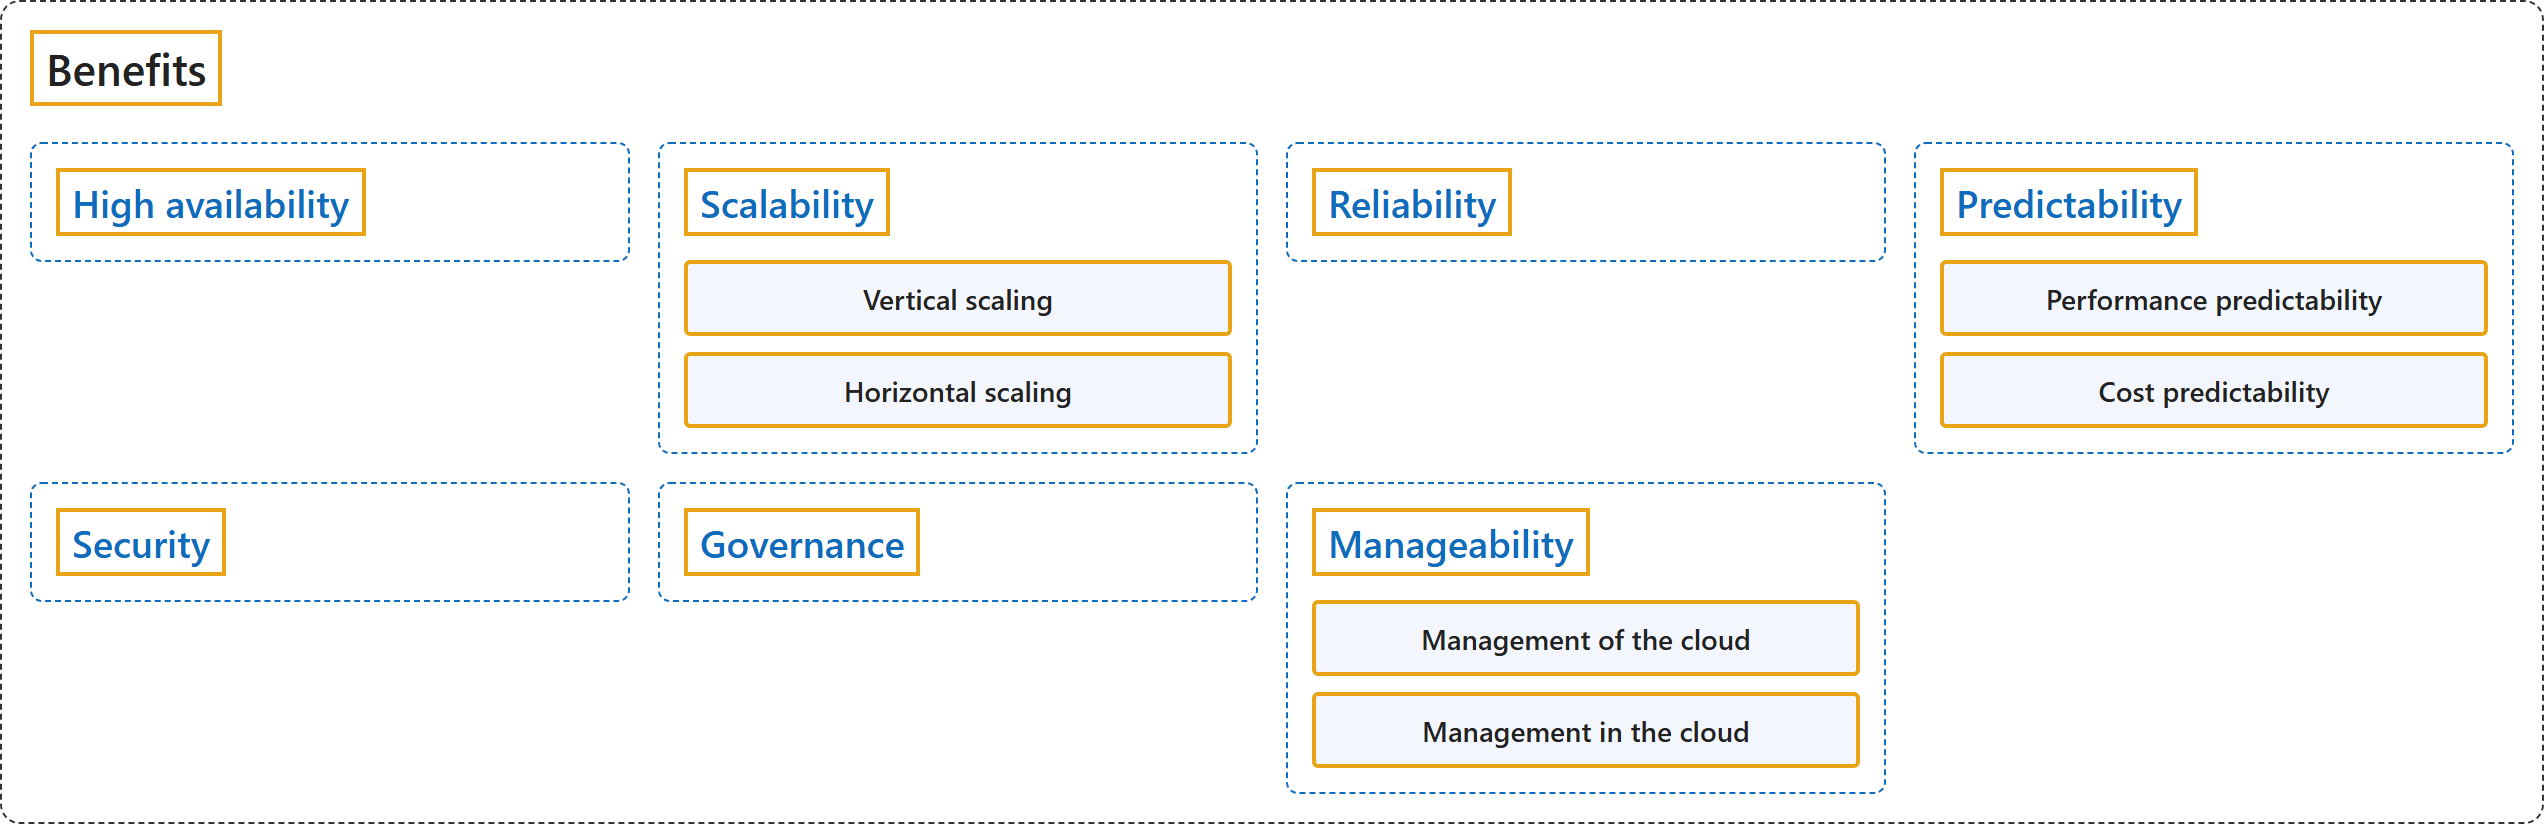
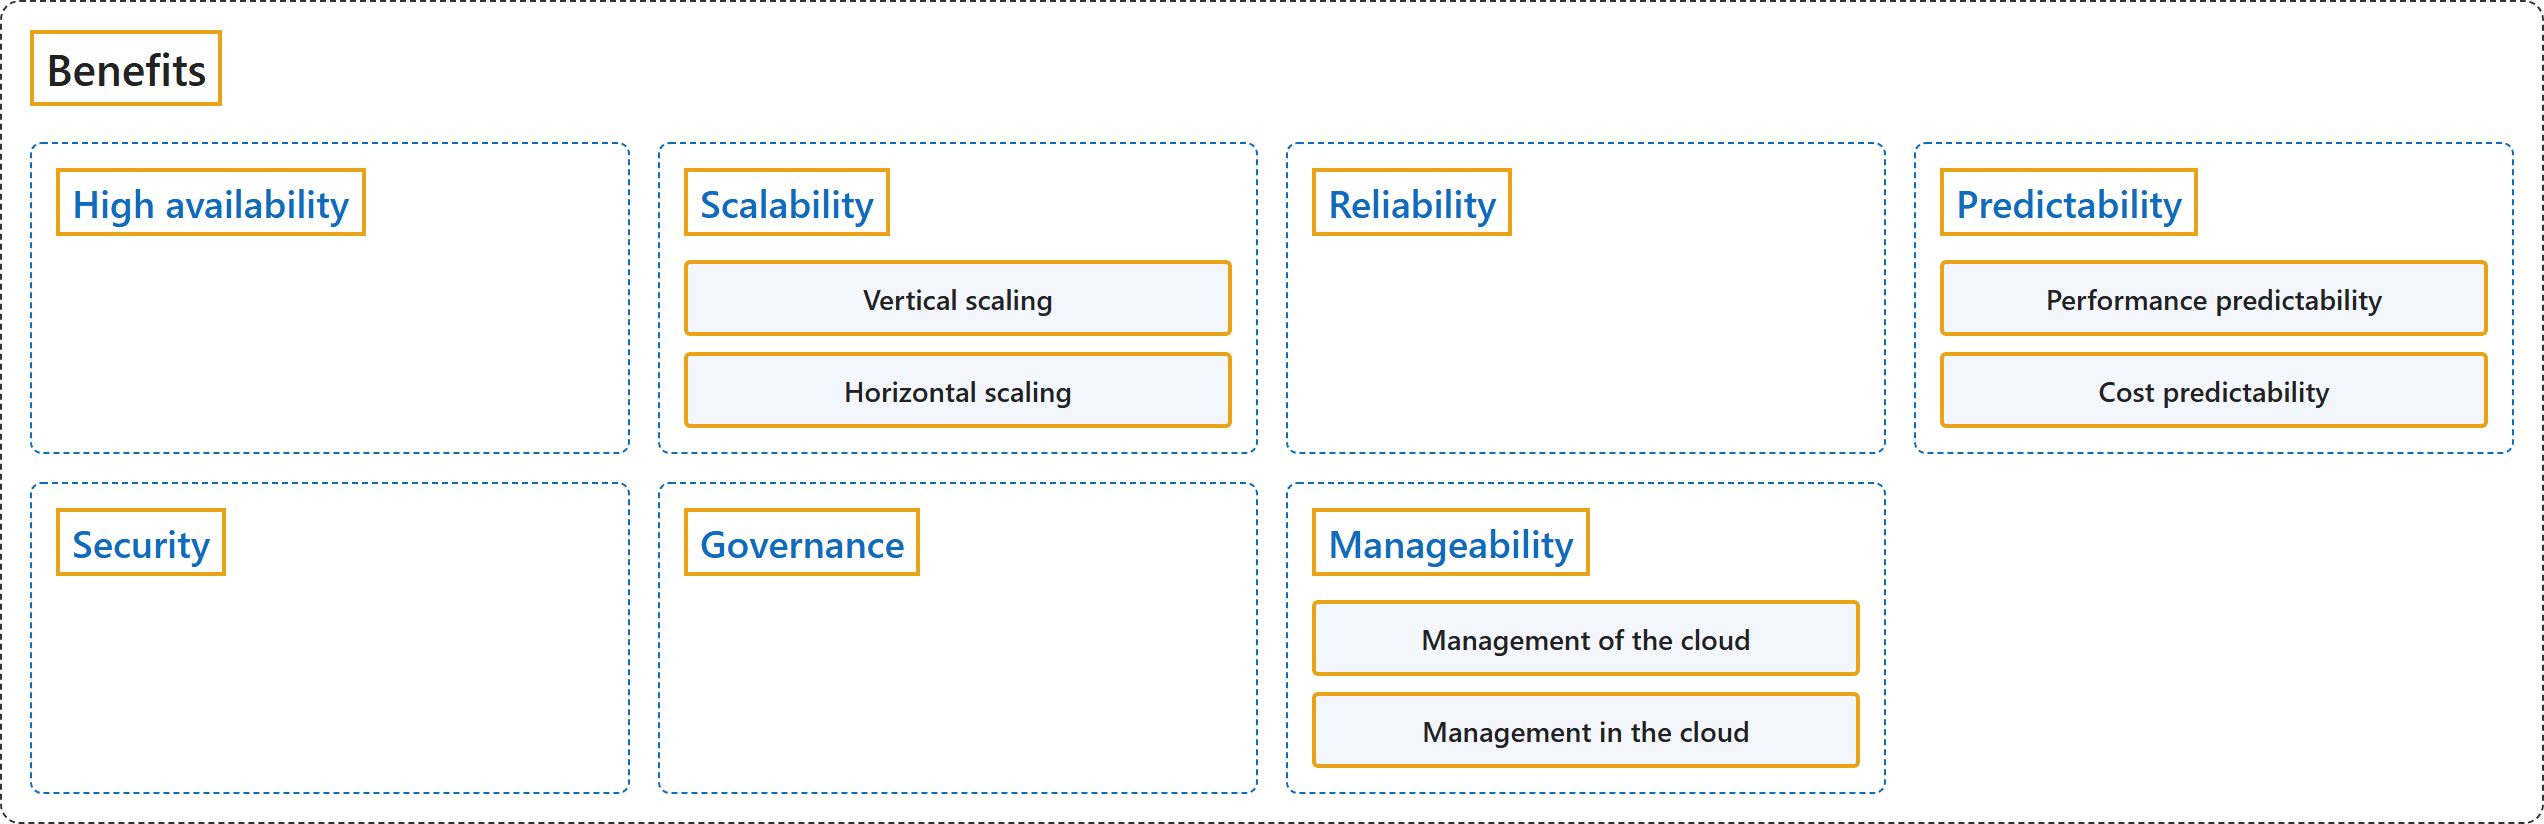
feat(azure): 2.2 Management infrastructure written; groups in a row equally tall
2.2 gets its figure and Glossary from the two AZ-900 units it lists: five groups in source order, Resources and Resource groups name-only (no kinds in the source), Subscriptions with its two boundary types (billing, access control), Management groups with the Tenant Root Group, Azure account with the Azure free account and Azure free student account. Chinese names from the zh-cn units.

Groups in one row are now equally tall (2.2 and the 1.5 Benefits figure re-rendered); README section 5 says so.

diff --git a/figures/cloud/azure/core-architectural-components/management-infrastructure.html b/figures/cloud/azure/core-architectural-components/management-infrastructure.html
@@ -1,0 +1,41 @@
+<!doctype html>
+<html><head><meta charset="utf-8">
+<style>
+  body { margin: 0; background: #fff; font-family: "Segoe UI", sans-serif; }
+  .frame { display: inline-block; margin: 2px; padding: 14px 14px 14px; border: 1.5px dashed #333; border-radius: 10px; }
+  .title { display: inline-block; border: 2px solid #e8a317; padding: 2px 6px; font-size: 22px; font-weight: 600; color: #222; margin-bottom: 18px; }
+  .row { display: flex; gap: 14px; align-items: stretch; }
+  .group { width: 300px; border: 1.5px dashed #0f6cbd; border-radius: 6px; padding: 12px; box-sizing: border-box; }
+  .group .title { white-space: nowrap; color: #0f6cbd; font-size: 19px; margin-bottom: 12px; }
+  .group .title:last-child { margin-bottom: 0; }
+  .item { border: 2px solid #e8a317; background: #f3f7fd; border-radius: 3px; height: 34px; margin-bottom: 8px;
+          display: flex; align-items: center; justify-content: center; font-size: 14px; font-weight: 600; text-align: center; padding: 0 6px; color: #222; }
+  .item:last-child { margin-bottom: 0; }
+</style></head>
+<body>
+<div class="frame" id="fig">
+  <div class="title">Management infrastructure</div>
+  <div class="row">
+    <div class="group">
+      <div class="title">Resources</div>
+    </div>
+    <div class="group">
+      <div class="title">Resource groups</div>
+    </div>
+    <div class="group">
+      <div class="title">Subscriptions</div>
+      <div class="item">Billing boundary</div>
+      <div class="item">Access control boundary</div>
+    </div>
+    <div class="group">
+      <div class="title">Management groups</div>
+      <div class="item">Tenant Root Group</div>
+    </div>
+    <div class="group">
+      <div class="title">Azure account</div>
+      <div class="item">Azure free account</div>
+      <div class="item">Azure free student account</div>
+    </div>
+  </div>
+</div>
+</body></html>

diff --git a/figures/cloud/azure/cloud-computing/benefits.html b/figures/cloud/azure/cloud-computing/benefits.html
@@ -4,7 +4,7 @@
   body { margin: 0; background: #fff; font-family: "Segoe UI", sans-serif; }
   .frame { display: inline-block; margin: 2px; padding: 14px 14px 14px; border: 1.5px dashed #333; border-radius: 10px; }
   .title { display: inline-block; border: 2px solid #e8a317; padding: 2px 6px; font-size: 22px; font-weight: 600; color: #222; margin-bottom: 18px; }
-  .row { display: flex; gap: 14px; align-items: flex-start; margin-bottom: 14px; }
+  .row { display: flex; gap: 14px; align-items: stretch; margin-bottom: 14px; }
   .row:last-child { margin-bottom: 0; }
   .group { width: 300px; border: 1.5px dashed #0f6cbd; border-radius: 6px; padding: 12px; box-sizing: border-box; }
   .group .title { white-space: nowrap; color: #0f6cbd; font-size: 19px; margin-bottom: 12px; }

diff --git a/docs/cloud/azure/core-architectural-components/management-infrastructure.md b/docs/cloud/azure/core-architectural-components/management-infrastructure.md
@@ -1,11 +1,34 @@
 ---
 title: "2.2 Management infrastructure"
 description: "Microsoft Azure, 2.2 Management infrastructure: resources, resource groups, subscriptions, management groups, Azure account."
-ms.date: 2026-10-22
+ms.date: 2026-10-26
 ---
 
 # 2.2 Management infrastructure
 
 Sources: [AZ-900 unit: Describe Azure management infrastructure](https://learn.microsoft.com/en-us/training/modules/describe-core-architectural-components-of-azure/6-describe-azure-management-infrastructure); [AZ-900 unit: Get started with Azure accounts](https://learn.microsoft.com/en-us/training/modules/describe-core-architectural-components-of-azure/3-get-started-azure-accounts).
 
-Not written yet.
+## Classification
+
+![Management infrastructure sorted into five groups: resources, resource groups, subscriptions (billing boundary, access control boundary), management groups (Tenant Root Group) and Azure account (Azure free account, Azure free student account).](media/management-infrastructure.png)
+
+## Glossary
+
+| Term | Definition | 中文解释 | Source |
+|---|---|---|---|
+| **Management infrastructure**<br>管理基础结构 | "The **management infrastructure** includes Azure **resources and resource groups**, **subscriptions**, and **accounts**." | **管理基础结构**包括 Azure **资源和资源组**、**订阅**以及**帐户**。 | [Microsoft, n.d.-b, unit introduction, para. 1](https://learn.microsoft.com/en-us/training/modules/describe-core-architectural-components-of-azure/6-describe-azure-management-infrastructure#:~:text=The%20management%20infrastructure%20includes%20Azure%20resources) |
+| **Resources**<br>资源 | "A resource is the **basic building block** of Azure. **Anything you create, provision, or deploy** is a resource." | 资源是 Azure 的**基本构建基块**。**你创建、预配或部署的任何内容**都是资源。 | [Microsoft, n.d.-b, "Azure resources and resource groups" section, para. 1](https://learn.microsoft.com/en-us/training/modules/describe-core-architectural-components-of-azure/6-describe-azure-management-infrastructure#:~:text=A%20resource%20is%20the%20basic%20building%20block%20of%20Azure) |
+| **Resource groups**<br>资源组 | "Resource groups are **groupings of resources**. Every resource must belong to **exactly one resource group**." | 资源组是**资源的分组**。每个资源都必须属于**恰好一个资源组**。 | [Microsoft, n.d.-b, "Azure resources and resource groups" section, para. 2](https://learn.microsoft.com/en-us/training/modules/describe-core-architectural-components-of-azure/6-describe-azure-management-infrastructure#:~:text=Resource%20groups%20are%20groupings%20of%20resources) |
+| **Subscriptions**<br>订阅 | "In Azure, subscriptions are a **unit of management, billing, and scale**." | 在 Azure 中，订阅是**管理、计费和缩放的单位**。 | [Microsoft, n.d.-b, "Azure subscriptions" section, para. 1](https://learn.microsoft.com/en-us/training/modules/describe-core-architectural-components-of-azure/6-describe-azure-management-infrastructure#:~:text=In%20Azure%2C%20subscriptions%20are%20a%20unit%20of%20management) |
+| **Billing boundary**<br>计费边界 | "**Billing boundary**: Determines **how an Azure account is billed**." | **计费边界**：决定 **Azure 帐户如何计费**。 | [Microsoft, n.d.-b, "Azure subscriptions" section, list item 1](https://learn.microsoft.com/en-us/training/modules/describe-core-architectural-components-of-azure/6-describe-azure-management-infrastructure#:~:text=Determines%20how%20an%20Azure%20account%20is%20billed) |
+| **Access control boundary**<br>访问控制边界 | "**Access control boundary**: Azure applies **access-management policies** at the **subscription level**." | **访问控制边界**：Azure 在**订阅级别**应用**访问管理策略**。 | [Microsoft, n.d.-b, "Azure subscriptions" section, list item 2](https://learn.microsoft.com/en-us/training/modules/describe-core-architectural-components-of-azure/6-describe-azure-management-infrastructure#:~:text=Azure%20applies%20access%2Dmanagement%20policies%20at%20the%20subscription%20level) |
+| **Management groups**<br>管理组 | "Azure management groups **sit above subscriptions**. You **organize subscriptions into management groups** and **apply governance conditions** — like access policies or compliance rules — to the group." | Azure 管理组**位于订阅之上**。你**把订阅组织到管理组中**，并对该组**应用治理条件**（如访问策略或合规性规则）。 | [Microsoft, n.d.-b, "Azure management groups" section, para. 2](https://learn.microsoft.com/en-us/training/modules/describe-core-architectural-components-of-azure/6-describe-azure-management-infrastructure#:~:text=Azure%20management%20groups%20sit%20above%20subscriptions) |
+| **Tenant Root Group**<br>租户根组 | "Every Microsoft Entra tenant has a **single top-level Tenant Root Group**. **All other management groups and subscriptions fold up** to this root group, which lets you **apply governance policies globally**." | 每个 Microsoft Entra 租户都有**一个顶级租户根组**。**所有其他管理组和订阅都向上归入**这个根组，这样你就可以**在全局应用治理策略**。 | [Microsoft, n.d.-b, "Azure management groups" section, para. 3](https://learn.microsoft.com/en-us/training/modules/describe-core-architectural-components-of-azure/6-describe-azure-management-infrastructure#:~:text=Every%20Microsoft%20Entra%20tenant%20has%20a%20single%20top%2Dlevel%20Tenant%20Root%20Group) |
+| **Azure account**<br>Azure 帐户 | "An Azure subscription links to an Azure account, which is an **identity in Microsoft Entra ID** or in a **directory that Microsoft Entra ID trusts**." | Azure 订阅链接到一个 Azure 帐户，该帐户是 **Microsoft Entra ID 中的标识**，或 **Microsoft Entra ID 信任的目录**中的标识。 | [Microsoft, n.d.-b, "Azure subscriptions" section, para. 2](https://learn.microsoft.com/en-us/training/modules/describe-core-architectural-components-of-azure/6-describe-azure-management-infrastructure#:~:text=An%20Azure%20subscription%20links%20to%20an%20Azure%20account) |
+| **Azure free account**<br>Azure 免费帐户 | "The Azure free account is an **excellent way for new users** to **get started and explore**." | Azure 免费帐户是**新用户的绝佳方式**，可用来**入门和探索**。 | [Microsoft, n.d.-a, "What is the Azure free account?" section, para. 2](https://learn.microsoft.com/en-us/training/modules/describe-core-architectural-components-of-azure/3-get-started-azure-accounts#:~:text=is%20an%20excellent%20way%20for%20new%20users%20to%20get%20started%20and%20explore) |
+| **Azure free student account**<br>Azure 免费学生帐户 | "The Azure free student account is an **offer for students** that gives **$100 credit** and **free developer tools**." | Azure 免费学生帐户是**面向学生的优惠**，提供 **100 美元额度**和**免费开发人员工具**。 | [Microsoft, n.d.-a, "What is the Azure free student account?" section, para. 2](https://learn.microsoft.com/en-us/training/modules/describe-core-architectural-components-of-azure/3-get-started-azure-accounts#:~:text=is%20an%20offer%20for%20students%20that%20gives) |
+
+## References
+
+- Microsoft. (n.d.-a). *Get started with Azure accounts* [Training unit]. Microsoft Learn. Retrieved October 26, 2026, from <https://learn.microsoft.com/en-us/training/modules/describe-core-architectural-components-of-azure/3-get-started-azure-accounts>
+- Microsoft. (n.d.-b). *Describe Azure management infrastructure* [Training unit]. Microsoft Learn. Retrieved October 18, 2026, from <https://learn.microsoft.com/en-us/training/modules/describe-core-architectural-components-of-azure/6-describe-azure-management-infrastructure>

diff --git a/docs/cloud/azure/README.md b/docs/cloud/azure/README.md
@@ -98,7 +98,7 @@ A topic folder holds only:
 - The table: one row per box, in figure order, `Term | Definition | 中文解释 | Source`. Where the source defines the term, the Definition quotes that definition; where it only mentions the term, it quotes the sentence where the term appears, marked "(context)". The Source gives section, paragraph and `#:~:text=` anchor.
 - Default cases (follow them without asking; ask only about a case not listed):
   - Where the source gives a part no components or kinds, the parts themselves are the boxes inside the outer frame (24.1 to 24.4).
-  - Where only some parts have components or kinds, every part is still a dashed group, in the source's order: a part without them is a group with only its name (1.5 Benefits: Scalability, Predictability and Manageability hold their kinds; High availability, Reliability, Security and Governance are name-only groups). One level never mixes boxes and groups. Groups are as tall as their content.
+  - Where only some parts have components or kinds, every part is still a dashed group, in the source's order: a part without them is a group with only its name (1.5 Benefits: Scalability, Predictability and Manageability hold their kinds; High availability, Reliability, Security and Governance are name-only groups). One level never mixes boxes and groups. Groups in one row are equally tall (the tallest sets the height).
   - A list of what a part does or when to use it is not boxed, except for a term added under section 6.
   - A definition found in another section of the same source is quoted with its real section.
   - A term defined elsewhere in the folder keeps its box, and its table row only links there.
